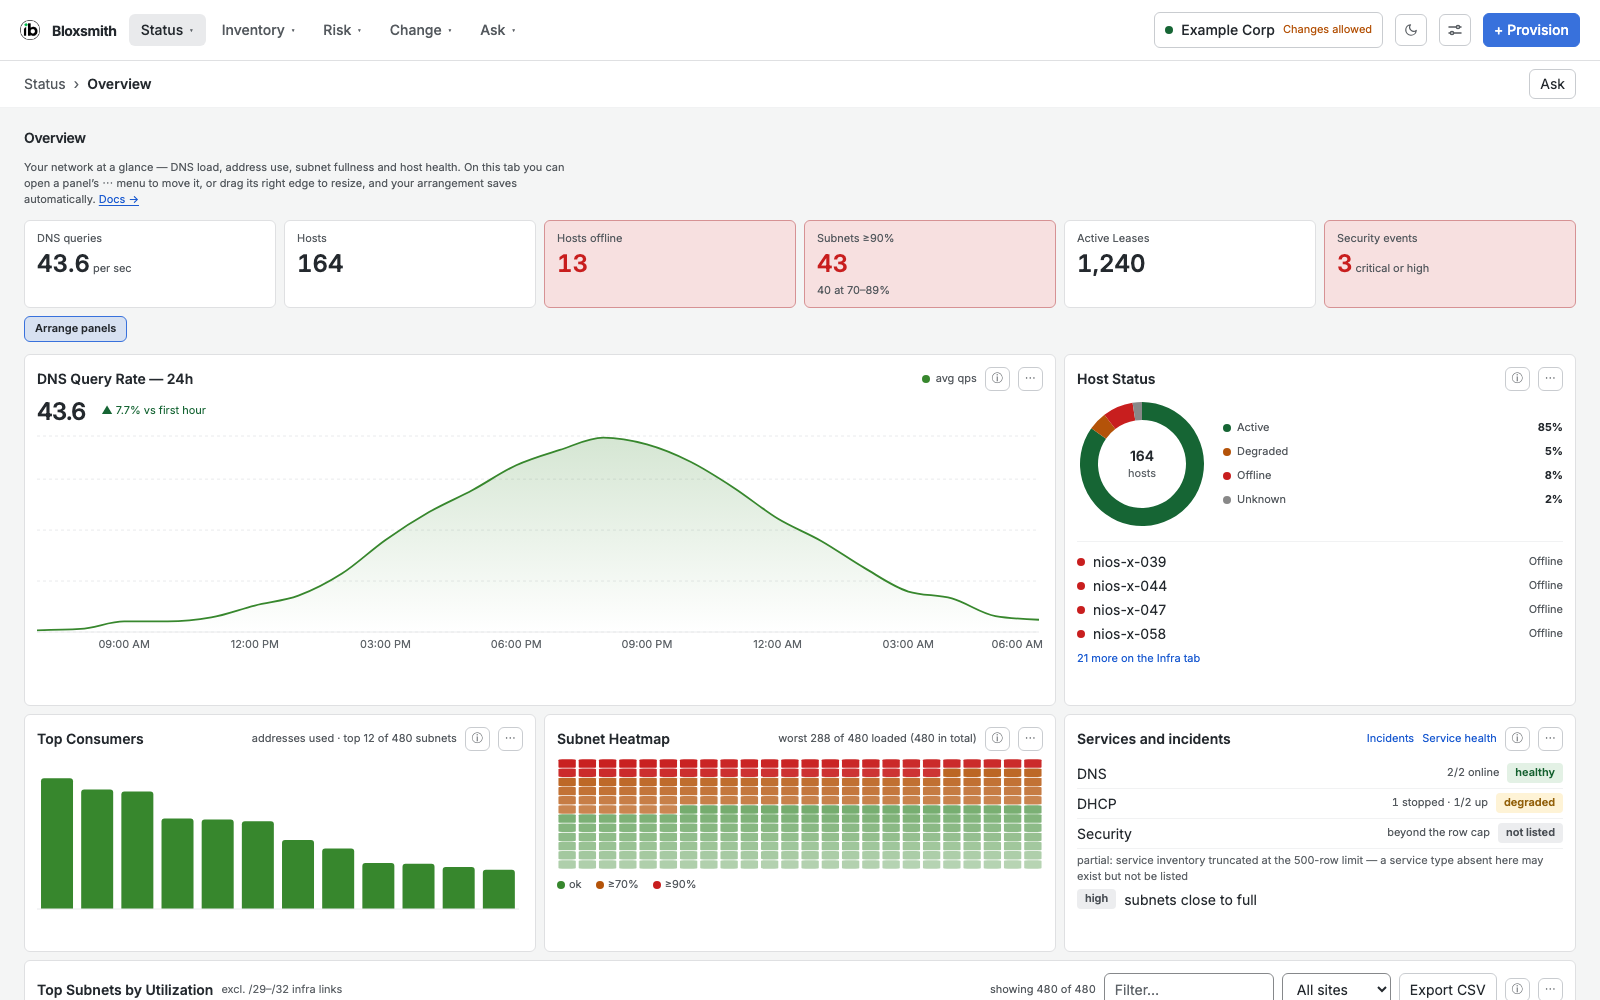
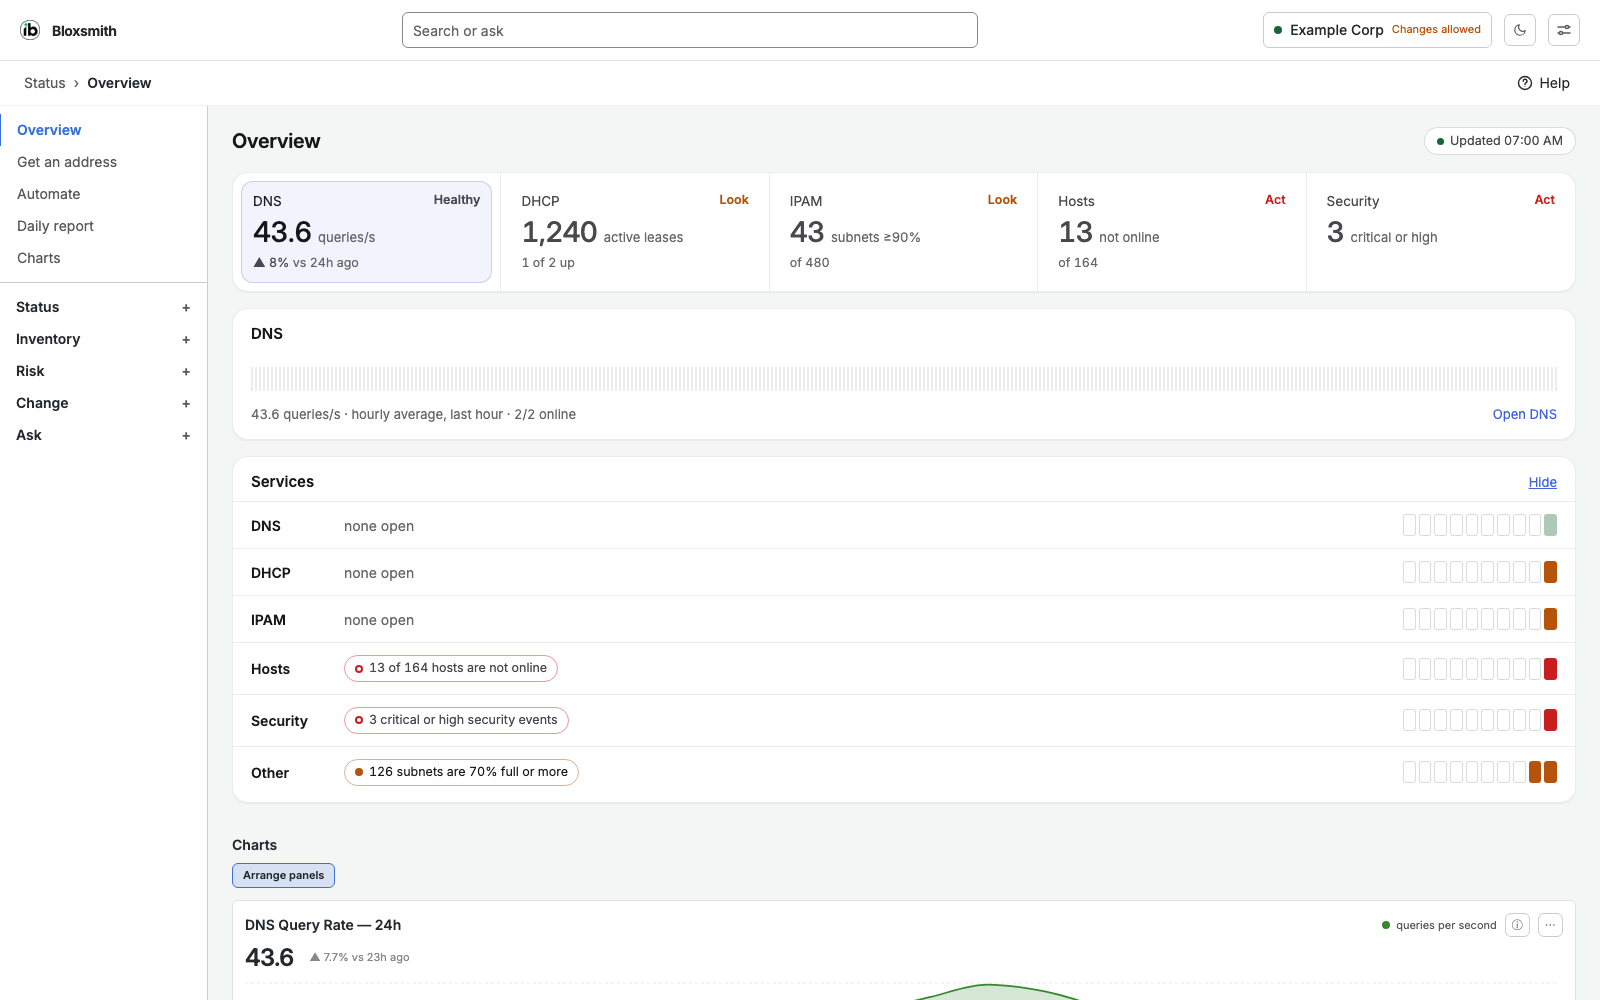
README: new screenshots, and the Infoblox group two features need (#435)
The Overview screenshots (dark and light) are retaken from v3.157.6 with
invented data, so they show the left-hand menu and today's Overview.

"What you need" and Troubleshooting now name the ib-mcp-server-user
Portal group, which IQ actions on Incidents and host settings on Infra
need; without it those answer HTTP 403.

diff --git a/README.md b/README.md
@@ -105,6 +105,7 @@ You only add the key once. It is kept encrypted and survives restarts and update
 |---|---|
 | Your computer | Docker Desktop on macOS, Windows or Linux |
 | Infoblox | A Portal login that can create a User API key |
+| Infoblox user group (optional) | Your Portal user in the `ib-mcp-server-user` group, for IQ actions on **Incidents** and host settings on **Infra**. Your Infoblox account admin adds it. Everything else works without it |
 | Network | Outbound HTTPS to csp.infoblox.com |
 | Port | 8080 free on your computer, or change `PORT` (see Troubleshooting) |
 
@@ -540,6 +541,7 @@ rm -rf ~/Library/Application\ Support/bloxsmith
 | Port 8080 is already in use | Another program has it | Change `PORT` in `docker-compose.yml`, or run `bloxsmith --port 9090` |
 | macOS says the app cannot be opened | The program is not signed by Apple | Right-click > **Open**, or run `xattr -dr com.apple.quarantine` on the file |
 | Windows SmartScreen blocks it | The program is not signed by Microsoft | Click **More info** > **Run anyway** |
+| **Incidents** or **Infra** says *Infoblox refused the call (HTTP 403)* | Most often, your Portal user is not in the `ib-mcp-server-user` group | Ask your Infoblox account admin to add you to it, then reload the page |
 | Audit log says *could not verify* | The audit signing key volume was lost | Keep `noc-audit-trust` when you replace the container |
 
 The signing warnings only apply to Homebrew and the installer scripts. The Docker install never
